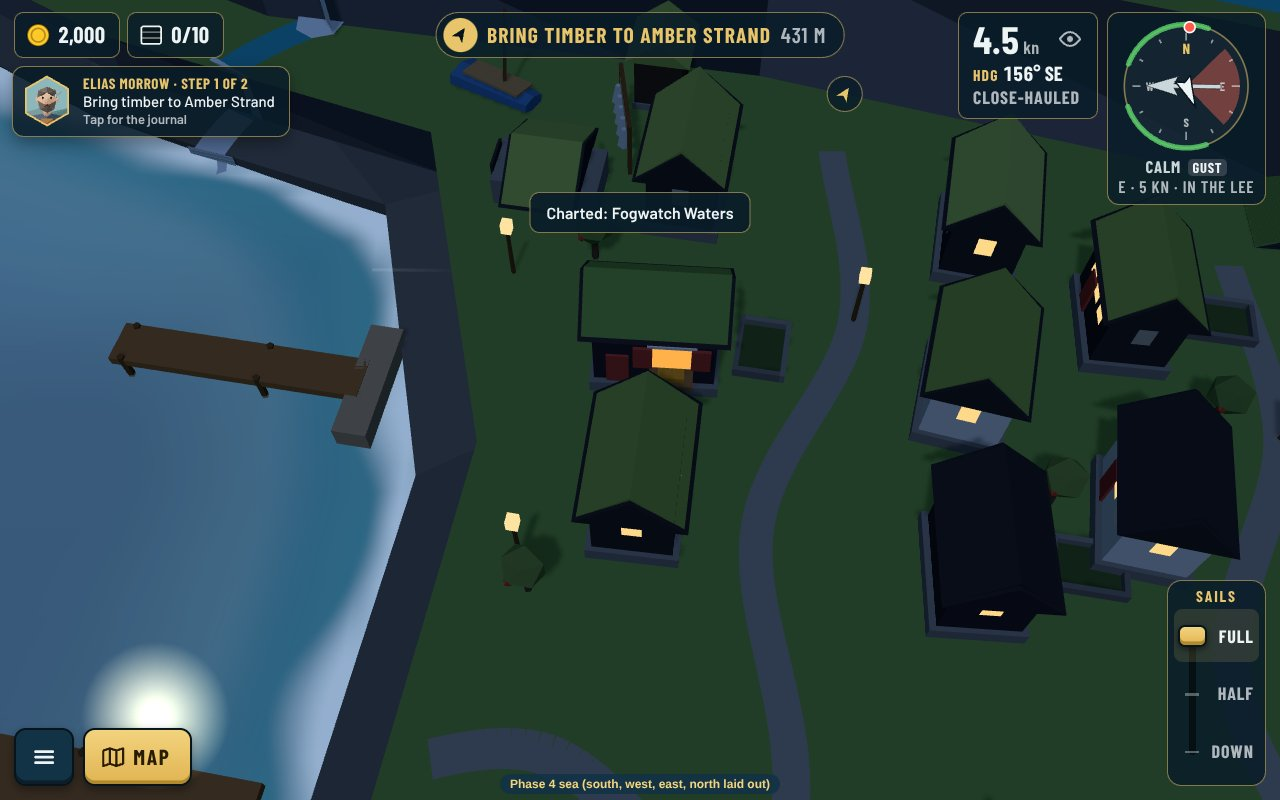
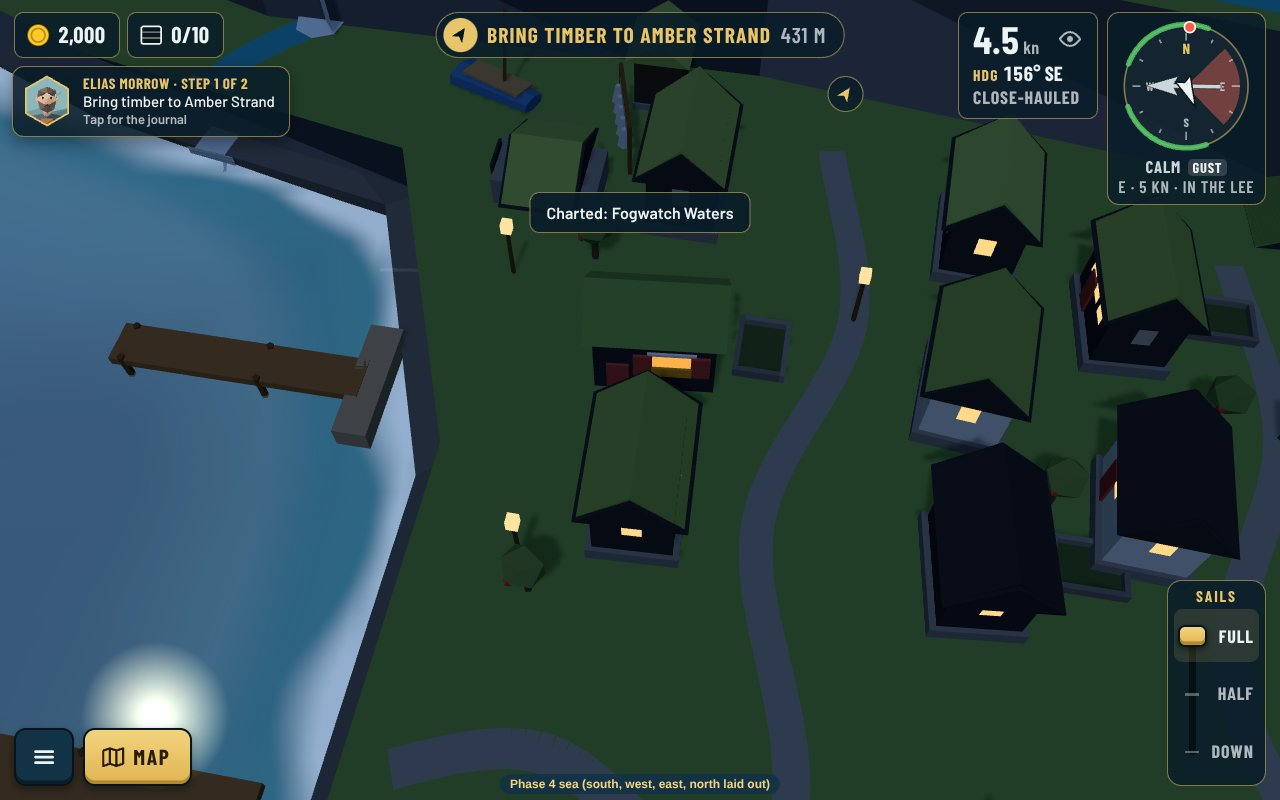
East story: new quest starts after the Phase 4 gate, Elias's workshop fits Fogwatch
Maren's letter waits for the mill and Watchman Key (decision 0194); Four winds
waits for all four outposts. The workshop replaces a turf house on main's
Fogwatch, three sheep go to keep the island under 6,000 triangles, an amber
sill shows by day. The foghorn lamp change is dropped: it doesn't read from
the game camera.

Claude-Session: https://claude.ai/code/session_01RQgi7JPSTWnQbS6RBbNNEL

diff --git a/tests/island-files.test.ts b/tests/island-files.test.ts
@@ -148,7 +148,7 @@ const GOLDEN: Record<string, string[]> = {
   'palm-key': ['296:5af31071', '270:7e77b63a', '266:18f30d17', '266:18f30d17'],
   'lone-palm': Array(4).fill('13:2bd589f4'),
   // The east sea (decision 0173).
-  fogwatch: ['609:5ce185ac', '730:ccdee369', '828:a1c40537', '882:ceda5e05'],
+  fogwatch: ['603:e62097c7', '724:e1d5b792', '822:dabedab0', '876:69ac776'],
   'the-giant': Array(4).fill('6:c84f56e6'),
   'his-wife': Array(4).fill('6:676eecc4'),
   'amber-strand': ['172:d2f08c8a', '214:25877637', '253:69fee500', '253:69fee500'],

diff --git a/docs/decisions/0193-the-east-seas-story-and-the-four-winds-closing-beat.md b/docs/decisions/0193-the-east-seas-story-and-the-four-winds-closing-beat.md
@@ -12,15 +12,15 @@ The east sea (Fogwatch, [0173](0173-east-sea-fogwatch-the-stepping-stones-and-fo
 
 | Quest | Steps | Gold |
 |---|---|---|
-| `westholm-letter` (Maren, Westholm; starts after `outpost-north`) | `chart`: dock at Fogwatch, charting the Stepping Stones and Fogwatch Waters | 350 |
+| `westholm-letter` (Maren, Westholm; starts once `westholm-mill` and `watchman-passage` are done, decision 0194) | `chart`: dock at Fogwatch, charting the Stepping Stones and Fogwatch Waters | 350 |
 | `fogwatch-amber` (Elias Morrow) | `fish` (8 smoked fish), `way` (a card with Elias's Stormbreak line and a "Which way?" button), `strand` (reach 692, 452 off Amber Strand under 3 kn, held 3 s; charts Amber Reach), `light` (8 lamp oil) | 400, 450, 650 |
 | `outpost-east` (Elias; Pip Holt speaks the settler and done cards) | `supplies` (land 8 timber and 6 planks at 688, 465 under 2 kn), `settler` (carry `pip` from Fogwatch) | 450, 600, then `found: ["amber-strand"]` |
-| `four-winds` (Rook, a main quest; starts after `outpost-east`) | `home`: moor at Skerry | 300 |
+| `four-winds` (Rook, a main quest; starts once all four outposts are founded) | `home`: moor at Skerry | 300 |
 
 - Every card is at most about 220 characters in English. Elias's Stormbreak line needed its own card, so the arc has a `way` step with one "continue" option, as the prologue splits Rook's talk.
 - Maren's letter says "the mill has its sails again", not "the mill's turning": the brief's Westholm rule says no line promises that the mill turns.
 - **People:** Elias Morrow (amber carver) and Pip Holt (settler) in `characters.json`, low-poly portraits as data (0124), with their own babble voices in `audio.json`: Elias slow, soft and low (vowels `eu`, little wobble, volume 0.8), Pip quick and bright like her cousin Maren but not the same (vowels `iae`). Bram drops to pitch 0.74 with vowels `aeo`, away from Rook's `oau`.
-- **New looks:** `amber-workshop` (Elias's workshop on Fogwatch's front row, facing the camera: red shutters closed `before:fogwatch-amber`, and `amber-workshop-lit`, a lamp in an amber window, `after:fogwatch-amber`); the foghorn's lamp is dark below variant 1 and lit `after:fogwatch-amber`; a `signpost` on Skerry's pier, arms tipped in the four seas' colours, `after:four-winds`. Fogwatch drops one turf house and two doubled boulders to stay inside its 6,000-triangle budget (5,981).
+- **New looks:** `amber-workshop` (Elias's workshop on Fogwatch's front row, facing the camera: red shutters closed `before:fogwatch-amber`, and `amber-workshop-lit`, a lamp in an amber window, `after:fogwatch-amber`); a `signpost` on Skerry's pier, arms tipped in the four seas' colours, `after:four-winds`. The workshop takes the place of one turf house, and Fogwatch drops three of its seventeen sheep to stay inside its 6,000-triangle budget (5,974). The foghorn's lamp stays as it is: lit or dark, it doesn't read from the game camera.
 - **Amber Strand grows:** a hut, two drying racks, crates, a lamp, the flagpole and name board at level 1; two houses, a drying shed, a beached boat at level 2; a pier, a boathouse and two houses at level 3.
 - **Engine, generic:** `questsFor` also leaves out a quest that starts after a quest this map can't run (`questsIn` lists the quests a condition names), so `four-winds`, which names no port, stays off the ring sea like the arcs before it.
 

diff --git a/docs/decisions/README.md b/docs/decisions/README.md
@@ -213,5 +213,5 @@ Template for new entries: `# NNNN. Title`, then **Status**, **Context**, **Decis
 | [0189](0189-controls-page-in-the-editors.md) | **Controls page in the editors**: every part of `controls.json` (pad numbers, buttons per action at sea, on the chart and in menus, TV mode, pad makers' names) on an editor page with checks and export; `npm run check -- --only controls` | 2026-10-25 | Accepted |
 | [0190](0190-rook-thanks-the-captain-on-the-quay.md) | **Rook thanks the captain on the quay**: Rook's people card on the quay after the rescue, coached or not; Rook's thanks offers Skerry in rescue words, or a stranger's when the voyage had no rescue | 2026-10-25 | Accepted |
 | [0191](0191-phase-4-review-polish-chart-labels-fogwatchs-south-outpost-b.md) | **Phase 4 review polish: chart labels, Fogwatch's south, outpost berths**: zone names wait for charted water and keep inside the rim, no "(cold sea)" twice; crofts on Fogwatch's south; shots let quest land rise before mooring; Snowberry Isle's piers and levels | 2026-10-25 | Proposed |
-| [0194](0194-open-the-edge-seas-after-each-ring-arc.md) | **Open the edge seas after each ring arc**: Ness's chart after Ada's lens arc; each other letter after its writer's ring arc and Ness's chart; seas run side by side, no far port locked | 2026-10-25 | Accepted |
 | [0193](0193-the-east-seas-story-and-the-four-winds-closing-beat.md) | **The east sea's story and the Four winds closing beat**: Maren's letter, Elias's quiet workshop, Pip founds Amber Strand, Rook's Four winds at Skerry; Elias and Pip's voices; Amber Strand grows | 2026-10-25 | Proposed |
+| [0194](0194-open-the-edge-seas-after-each-ring-arc.md) | **Open the edge seas after each ring arc**: Ness's chart after Ada's lens arc; each other letter after its writer's ring arc and Ness's chart; seas run side by side, no far port locked | 2026-10-25 | Accepted |

diff --git a/docs/reviews/east-story/README.md b/docs/reviews/east-story/README.md
@@ -67,11 +67,9 @@ Decision [0193](../../decisions/0193-the-east-seas-story-and-the-four-winds-clos
 
 - Amber Strand at levels 1, 2, 3 and at night (the outpost now grows).
 - Elias's workshop on Fogwatch's front row: shutters closed before his arc, an amber lamp in the window after it (day and night).
-- The foghorn tower's lamp, dark before and lit after his arc.
+- The foghorn tower's lamp is left as it was: from the game camera its small lamp box doesn't read, lit or dark (art director's reshoot), so it isn't worth triangles on a full Fogwatch.
 - The signpost on Skerry's pier after Four winds.
 
-![look-foghorn-after-night.jpg](look-foghorn-after-night.jpg)
-![look-foghorn-before-night.jpg](look-foghorn-before-night.jpg)
 ![look-skerry-signpost.jpg](look-skerry-signpost.jpg)
 ![look-strand-1.jpg](look-strand-1.jpg)
 ![look-strand-2.jpg](look-strand-2.jpg)
